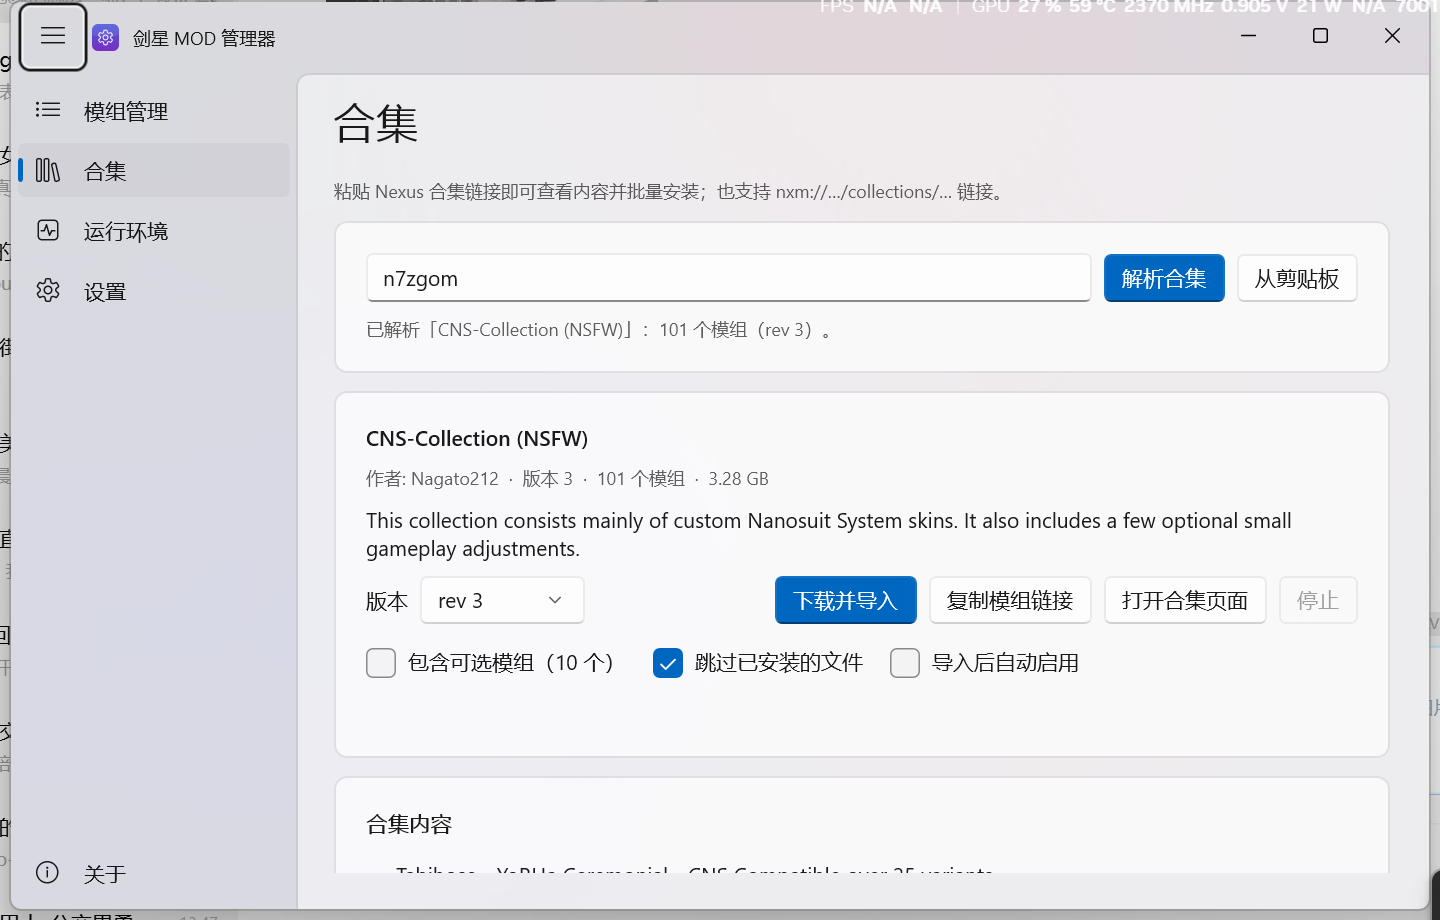
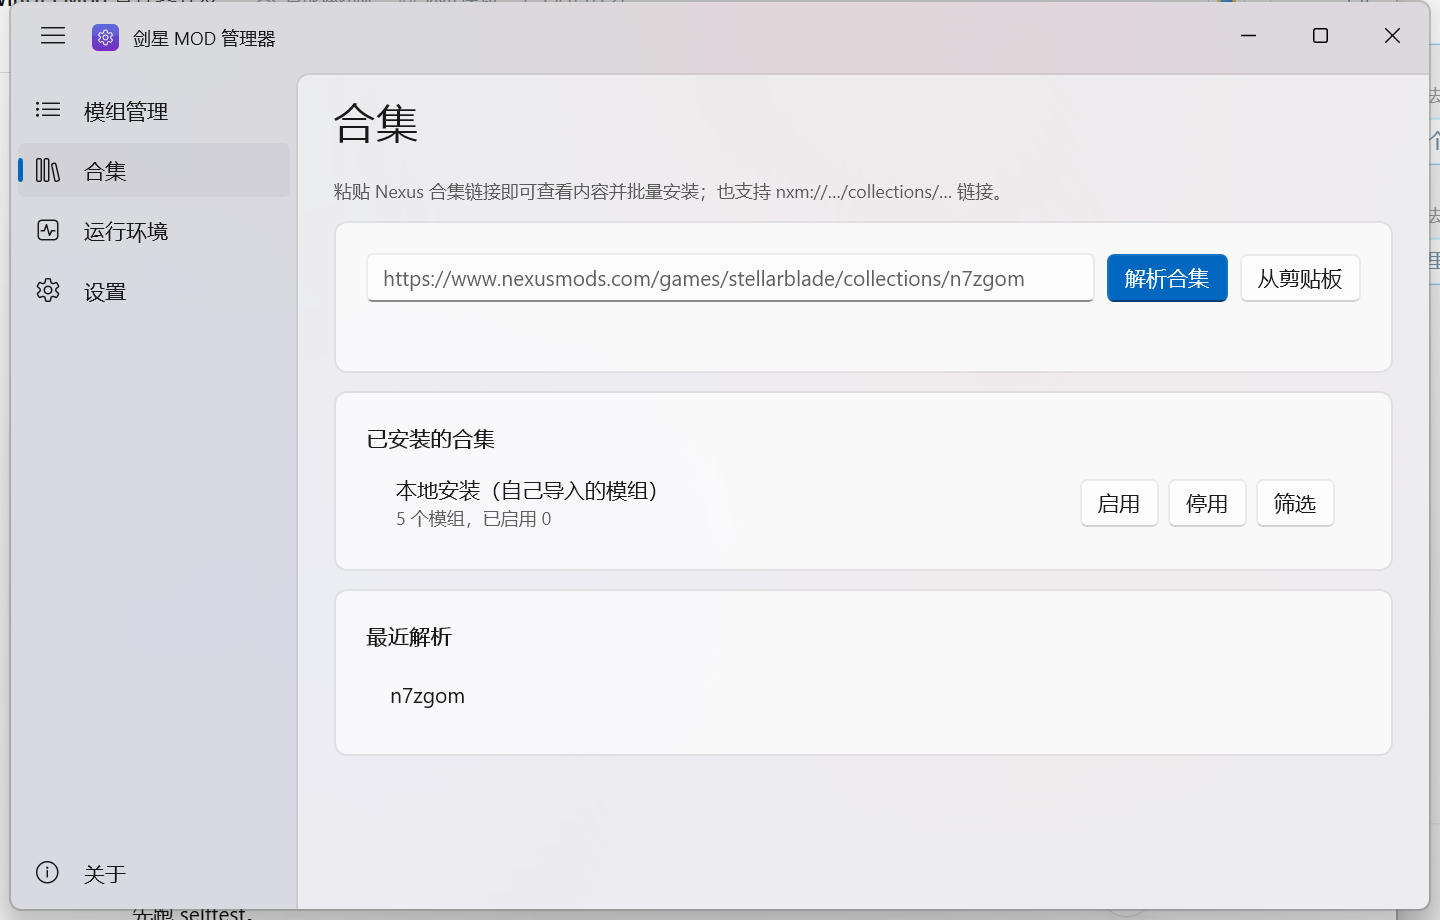
feat(v1.4.2): 内置本地安装合集 + 合集启用/停用切换；合集页宽度自适应

diff --git a/src/SBModManager/Views/CollectionsPage.xaml b/src/SBModManager/Views/CollectionsPage.xaml
@@ -5,8 +5,11 @@
     xmlns:local="using:SBModManager.Views"
     NavigationCacheMode="Required">
 
-    <ScrollViewer Padding="24,8,24,24">
-        <StackPanel MaxWidth="920" HorizontalAlignment="Left" Spacing="12">
+    <ScrollViewer
+        Padding="24,8,24,24"
+        HorizontalContentAlignment="Stretch"
+        HorizontalScrollBarVisibility="Disabled">
+        <StackPanel HorizontalAlignment="Stretch" Spacing="12">
             <TextBlock Margin="0,4,0,8" Style="{StaticResource TitleTextBlockStyle}" Text="合集" />
             <TextBlock
                 Foreground="{ThemeResource TextFillColorSecondaryBrush}"
@@ -214,11 +217,24 @@
                                             Style="{StaticResource CaptionTextBlockStyle}"
                                             Text="{x:Bind CountText}" />
                                     </StackPanel>
-                                    <Button
+                                    <StackPanel
                                         Grid.Column="1"
-                                        Click="FilterInstalled_Click"
-                                        Content="筛选模组"
-                                        Tag="{x:Bind Tag}" />
+                                        Orientation="Horizontal"
+                                        Spacing="6">
+                                        <Button
+                                            Click="ActivateInstalled_Click"
+                                            Content="启用"
+                                            Tag="{x:Bind Tag}"
+                                            ToolTipService.ToolTip="启用该合集，并停用其它合集（可在本地安装和他人合集之间切换）" />
+                                        <Button
+                                            Click="DeactivateInstalled_Click"
+                                            Content="停用"
+                                            Tag="{x:Bind Tag}" />
+                                        <Button
+                                            Click="FilterInstalled_Click"
+                                            Content="筛选"
+                                            Tag="{x:Bind Tag}" />
+                                    </StackPanel>
                                 </Grid>
                             </DataTemplate>
                         </ListView.ItemTemplate>

diff --git a/src/SBModManager/Views/AboutPage.xaml b/src/SBModManager/Views/AboutPage.xaml
@@ -18,7 +18,7 @@
                     <TextBlock
                         Foreground="{ThemeResource TextFillColorSecondaryBrush}"
                         Style="{StaticResource CaptionTextBlockStyle}"
-                        Text="v1.4.1 · WinUI 3 · .NET 8 · Windows App SDK 1.8" />
+                        Text="v1.4.2 · WinUI 3 · .NET 8 · Windows App SDK 1.8" />
                     <TextBlock
                         Margin="0,10,0,0"
                         TextWrapping="Wrap"

diff --git a/src/SBModManager/Views/CollectionsPage.xaml.cs b/src/SBModManager/Views/CollectionsPage.xaml.cs
@@ -388,7 +388,24 @@ public sealed partial class CollectionsPage : Page
     private void RefreshInstalled()
     {
         Installed.Clear();
-        foreach (var (tag, name, count) in CollectionInstaller.InstalledCollections())
+        var groups = CollectionInstaller.InstalledCollections();
+        var localCount = groups
+            .Where(g => string.Equals(g.Tag, CollectionInstaller.LocalTag, StringComparison.OrdinalIgnoreCase))
+            .Select(g => g.Count)
+            .FirstOrDefault();
+        var localEnabled = State.Library
+            .Where(r => r.Tags.Any(t => string.Equals(t, CollectionInstaller.LocalTag, StringComparison.OrdinalIgnoreCase)))
+            .Count(r => State.IsEnabled(r.Id));
+
+        // The built-in "local installs" collection is always present, even when empty.
+        Installed.Add(new InstalledCollectionRow
+        {
+            Tag = CollectionInstaller.LocalTag,
+            Name = "本地安装（自己导入的模组）",
+            CountText = $"{localCount} 个模组" + (localCount > 0 ? $"，已启用 {localEnabled}" : ""),
+        });
+        foreach (var (tag, name, count) in groups
+                     .Where(g => !string.Equals(g.Tag, CollectionInstaller.LocalTag, StringComparison.OrdinalIgnoreCase)))
         {
             Installed.Add(new InstalledCollectionRow
             {
@@ -397,8 +414,8 @@ public sealed partial class CollectionsPage : Page
                 CountText = $"{count} 个模组",
             });
         }
-        InstalledEmpty.Visibility = Installed.Count == 0 ? Visibility.Visible : Visibility.Collapsed;
-        InstalledList.Visibility = Installed.Count == 0 ? Visibility.Collapsed : Visibility.Visible;
+        InstalledEmpty.Visibility = Visibility.Collapsed;
+        InstalledList.Visibility = Visibility.Visible;
 
         Recent.Clear();
         foreach (var item in State.Config.RecentCollections)
@@ -434,6 +451,34 @@ public sealed partial class CollectionsPage : Page
         if (e.ClickedItem is not string value) return;
         UrlBox.Text = value;
         await ParseAsync(value);
+    }
+
+    private async void ActivateInstalled_Click(object sender, RoutedEventArgs e)
+    {
+        if (sender is not Button { Tag: string tag } || string.IsNullOrWhiteSpace(tag)) return;
+
+        var (enabled, failed, errors) = CollectionInstaller.Activate(tag, exclusive: true);
+        RefreshInstalled();
+        var message = $"已启用「{tag["合集:".Length..]}」：{enabled} 个模组" +
+                      (failed > 0 ? $"，{failed} 个失败" : "") +
+                      "。其它合集的模组已停用。";
+        if (errors.Count > 0)
+        {
+            message += Environment.NewLine + string.Join(Environment.NewLine, errors.Take(6));
+        }
+        StatusLine.Text = message;
+        await Task.CompletedTask;
+    }
+
+    private async void DeactivateInstalled_Click(object sender, RoutedEventArgs e)
+    {
+        if (sender is not Button { Tag: string tag } || string.IsNullOrWhiteSpace(tag)) return;
+
+        var (disabled, errors) = CollectionInstaller.Deactivate(tag);
+        RefreshInstalled();
+        StatusLine.Text = $"已停用「{tag["合集:".Length..]}」：{disabled} 个模组" +
+                          (errors.Count > 0 ? $"（{errors.Count} 个失败）" : "") + "。";
+        await Task.CompletedTask;
     }
 
     private void FilterInstalled_Click(object sender, RoutedEventArgs e)

diff --git a/src/SBModManager/Services/CollectionInstaller.cs b/src/SBModManager/Services/CollectionInstaller.cs
@@ -22,7 +22,99 @@ public sealed class CollectionInstallReport
 /// </summary>
 public static class CollectionInstaller
 {
+    /// <summary>Tag given to mods the user imported manually, so they can be switched back to.</summary>
+    public const string LocalTag = "合集:本地安装";
+
     public static string TagFor(NexusCollection collection) => "合集:" + collection.Name;
+
+    public static bool IsCollectionTag(string tag)
+        => tag.StartsWith("合集:", StringComparison.OrdinalIgnoreCase);
+
+    /// <summary>
+    /// Enable every mod of one collection, optionally disabling mods from other collections first.
+    /// This is the "switch back to my own mods" operation.
+    /// </summary>
+    public static (int Enabled, int Failed, List<string> Errors) Activate(string tag, bool exclusive)
+    {
+        var state = AppState.Instance;
+        var errors = new List<string>();
+        if (state.GameDir is not { } gameDir)
+        {
+            errors.Add("还没有设置游戏目录。");
+            return (0, 0, errors);
+        }
+
+        var target = state.Library
+            .Where(r => r.Tags.Any(t => string.Equals(t, tag, StringComparison.OrdinalIgnoreCase)))
+            .ToList();
+
+        if (exclusive)
+        {
+            foreach (var other in state.Library)
+            {
+                if (other.Tags.Any(t => string.Equals(t, tag, StringComparison.OrdinalIgnoreCase))) continue;
+                if (!other.Tags.Any(IsCollectionTag)) continue;
+                if (state.IsEnabled(other.Id))
+                {
+                    Deployer.Undeploy(other.Id);
+                }
+            }
+        }
+
+        var enabled = 0;
+        foreach (var record in target)
+        {
+            if (state.IsEnabled(record.Id))
+            {
+                enabled++;
+                continue;
+            }
+            var result = Deployer.Deploy(record, gameDir, force: false);
+            if (result.Success)
+            {
+                enabled++;
+            }
+            else
+            {
+                errors.Add($"{record.Name}: {result.Error ?? "文件冲突"}");
+            }
+        }
+
+        state.ReloadLibrary();
+        return (enabled, errors.Count, errors);
+    }
+
+    public static (int Disabled, List<string> Errors) Deactivate(string tag)
+    {
+        var state = AppState.Instance;
+        var errors = new List<string>();
+        var disabled = 0;
+        foreach (var record in state.Library
+                     .Where(r => r.Tags.Any(t => string.Equals(t, tag, StringComparison.OrdinalIgnoreCase)))
+                     .ToList())
+        {
+            if (!state.IsEnabled(record.Id)) continue;
+            try
+            {
+                Deployer.Undeploy(record.Id);
+                disabled++;
+            }
+            catch (Exception ex)
+            {
+                errors.Add($"{record.Name}: {ex.Message}");
+            }
+        }
+        state.ReloadLibrary();
+        return (disabled, errors);
+    }
+
+    /// <summary>Tag a manually imported mod as part of the local collection (unless it already has one).</summary>
+    public static void TagAsLocal(ModRecord record)
+    {
+        if (record.Tags.Any(IsCollectionTag)) return;
+        record.Tags.Add(LocalTag);
+        ModStore.Save(record);
+    }
 
     public static async Task<CollectionInstallReport> InstallAsync(
         NexusCollection collection,

diff --git a/src/SBModManager/Views/ModsPage.xaml.cs b/src/SBModManager/Views/ModsPage.xaml.cs
@@ -261,8 +261,15 @@ public sealed partial class ModsPage : Page
             var result = ArchiveService.IsPakPart(path) && !ArchiveService.IsArchive(path)
                 ? ModImporter.ImportPakFiles(new[] { path })
                 : ModImporter.ImportArchive(path);
-            if (result.Mod is not null) imported++;
-            else errors.Add($"{Path.GetFileName(path)}: {result.Error}");
+            if (result.Mod is not null)
+            {
+                CollectionInstaller.TagAsLocal(result.Mod);
+                imported++;
+            }
+            else
+            {
+                errors.Add($"{Path.GetFileName(path)}: {result.Error}");
+            }
         }
         SetBusy(false);
         Reload();
@@ -281,6 +288,7 @@ public sealed partial class ModsPage : Page
         Reload();
         if (result.Mod is not null)
         {
+            CollectionInstaller.TagAsLocal(result.Mod);
             ShowMessage(InfoBarSeverity.Success, "导入完成", $"已导入「{result.Mod.Name}」（{result.Mod.DisplayType}）");
         }
         else
@@ -1050,6 +1058,7 @@ public sealed partial class ModsPage : Page
             record.NexusFileId = link.FileId;
             record.NexusDomain = domain;
             if (string.IsNullOrWhiteSpace(record.Version)) record.Version = "file " + link.FileId;
+            CollectionInstaller.TagAsLocal(record);
             ModStore.Save(record);
             Reload();
 

diff --git a/src/SBModManager/Services/SelfTest.cs b/src/SBModManager/Services/SelfTest.cs
@@ -192,6 +192,18 @@ public static class SelfTest
                                  && colLink.IsCollection && colLink.CollectionSlug == "n7zgom";
             Check("nxm 合集链接解析", collectionNxm);
             Check("合集标签生成", CollectionInstaller.TagFor(new NexusCollection { Name = "Demo" }) == "合集:Demo");
+
+            var localRecord = new ModRecord { Name = "selftest-local-tag" };
+            CollectionInstaller.TagAsLocal(localRecord);
+            Check("本地安装默认合集标签", localRecord.Tags.Contains(CollectionInstaller.LocalTag));
+
+            var foreignRecord = new ModRecord { Name = "selftest-foreign-tag", Tags = { "合集:别人的合集" } };
+            CollectionInstaller.TagAsLocal(foreignRecord);
+            Check("已有合集标签不改成本地", !foreignRecord.Tags.Contains(CollectionInstaller.LocalTag));
+
+            var deactivateEmpty = CollectionInstaller.Deactivate("合集:不存在的合集");
+            Check("停用不存在的合集不报错", deactivateEmpty.Disabled == 0);
+
             Check("nxm 免会员直链参数", linkUrl.Contains("key=abc") && linkUrl.Contains("expires=99"), linkUrl);
 
             // 3c) conflict chain + high-conflict detection (two mods writing the same pak)

diff --git a/README.md b/README.md
@@ -2,7 +2,7 @@
 
 一个用 **WinUI 3 + .NET 8 + Windows App SDK 1.8** 写的《Stellar Blade（剑星）》模组管理器。
 原生 Fluent / Mica 界面，支持亮暗主题，所有操作都有中文说明。
-当前版本 **v1.4.1**：修复侧边栏「合集」点击后显示模组管理的问题；包含合集页（版本切换、跳过已安装、已安装合集筛选、最近解析）、内置 7z/RAR 解压、UE4SS 一键安装、更新检查、多版本管理、标签/备注、CNS 适配、冲突链分析与加载顺序。
+当前版本 **v1.4.2**：自己导入的模组会自动进入内置「本地安装」合集，可在合集页一键切换回本地模组；合集页宽度自适应；内置 7z/RAR 解压、UE4SS 一键安装、更新检查、多版本管理、标签/备注、CNS 适配、冲突链分析与加载顺序。
 
 ![模组管理](docs/screenshots/mods.png)
 ![合集](docs/screenshots/collections.png)
@@ -12,6 +12,7 @@
 - **自动检测游戏**：读取 Steam 注册表与 `libraryfolders.vdf`，按 AppID `3489700` 找到游戏目录；也可手动选择。
 - **导入模组**：压缩包（`.zip` / `.7z` / `.rar`）、文件夹、或直接选 `.pak/.ucas/.utoc`；**7z/RAR 由内置 SharpCompress 引擎解压，无需安装 7-Zip**；支持把文件/文件夹直接拖进窗口。
 - **Nexus 合集**：侧边栏「合集」页粘贴链接（或 `nxm://…/collections/…`）即可浏览合集内容、切换版本、只下必需/包含可选、跳过已安装、批量下载导入并自动加标签；支持最近解析、已安装合集筛选；免费账号可一键复制所有模组页面链接。
+- **本地安装合集**：自己导入的模组会自动归入内置的「本地安装」合集；在合集页对任意合集点「启用」会停用其它合集的模组，点「停用」则移除该合集，方便在别人的合集和自己的模组之间来回切换。
 - **UE4SS 一键安装**：在「运行环境」里直接下载 [Chrisr0/RE-UE4SS](https://github.com/Chrisr0/RE-UE4SS) 的最新 Release，
   自动解压、识别为运行库并部署到 `SB\Binaries\Win64`，也可以检查本地安装版本。
 - **模组更新检查**：配置 Nexus API Key 后，可对带 Nexus 模组 ID 的模组一键检查更新。
@@ -169,6 +170,7 @@ stellar-mod-manager/
 - 下载：需要 Nexus API Key；Nexus 的直链接口通常要求 **Premium** 账号，免费账号可以「复制模组链接」后逐个手动下载再导入。
 - 导入：按合集列表顺序逐个下载、解压、导入，模组会自动带上 `合集:<名称>` 标签和来源备注，可按标签筛选。
 - 合集页：可切换历史版本、只下必需/包含可选、跳过已安装、导入后自动启用、最近解析、按「合集:名称」标签筛选已安装模组。
+- 内置「本地安装」合集：手动导入的模组自动打上 `合集:本地安装` 标签；合集页「启用/停用」可在本地模组与任意他人合集之间切换（启用一个合集时会停用其它合集）。
 - 暂不处理：FOMOD 选项、合集补丁、集合作者定义的加载顺序；需要精细选项时请用 Vortex 安装这些部分。
 
 ## 第三方组件
